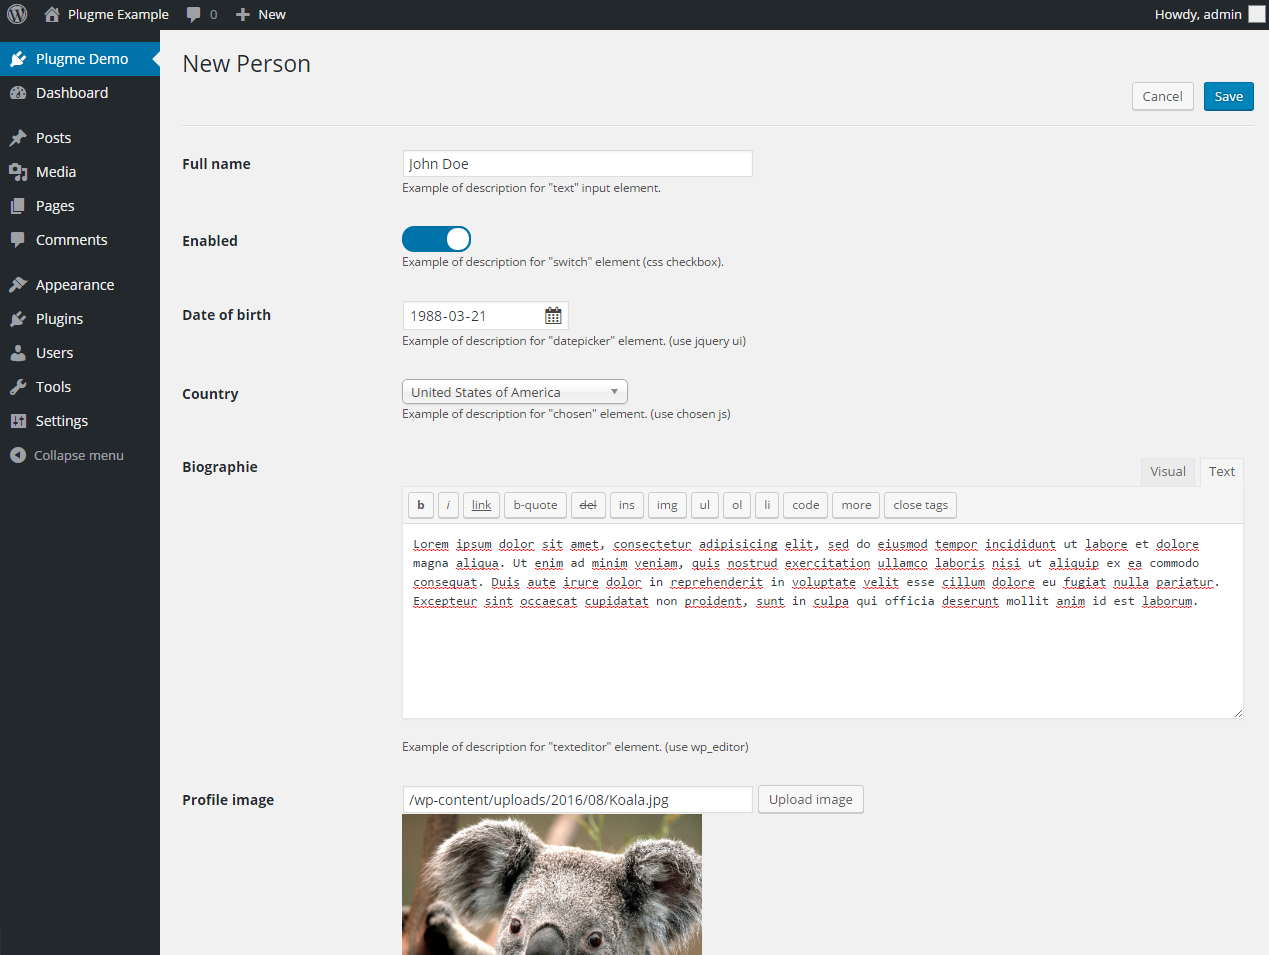
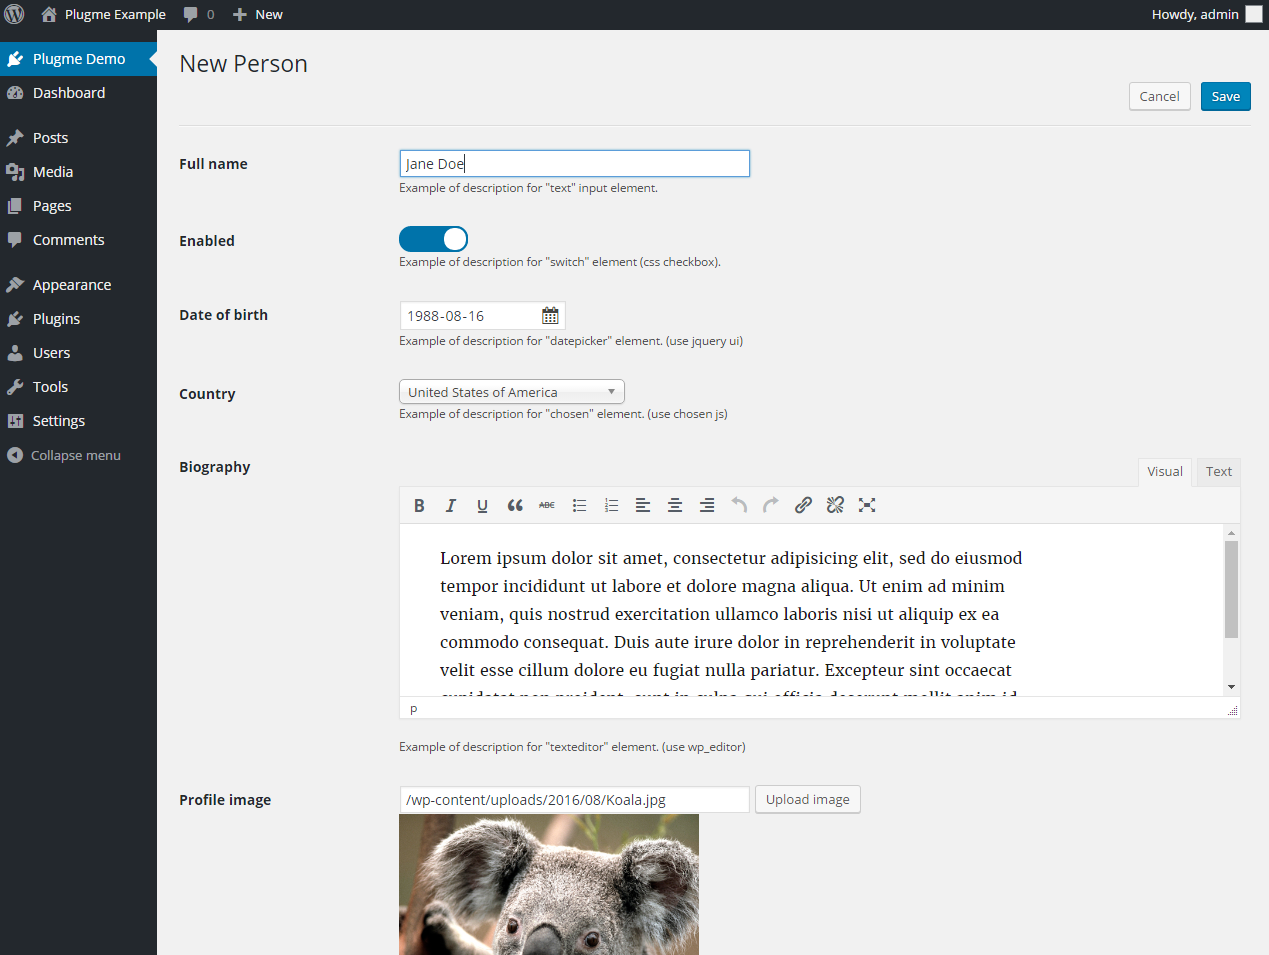
updated

diff --git a/example.form.php b/example.form.php
@@ -50,7 +50,7 @@ class example_form extends plugme_form
         ),
         'biography' => array(
             'type'     => 'texteditor',
-            'label'    => 'Biographie',
+            'label'    => 'Biography',
             'required' => false,
             'description' => 'Example of description for "texteditor" element. (use wp_editor)',
         ),
